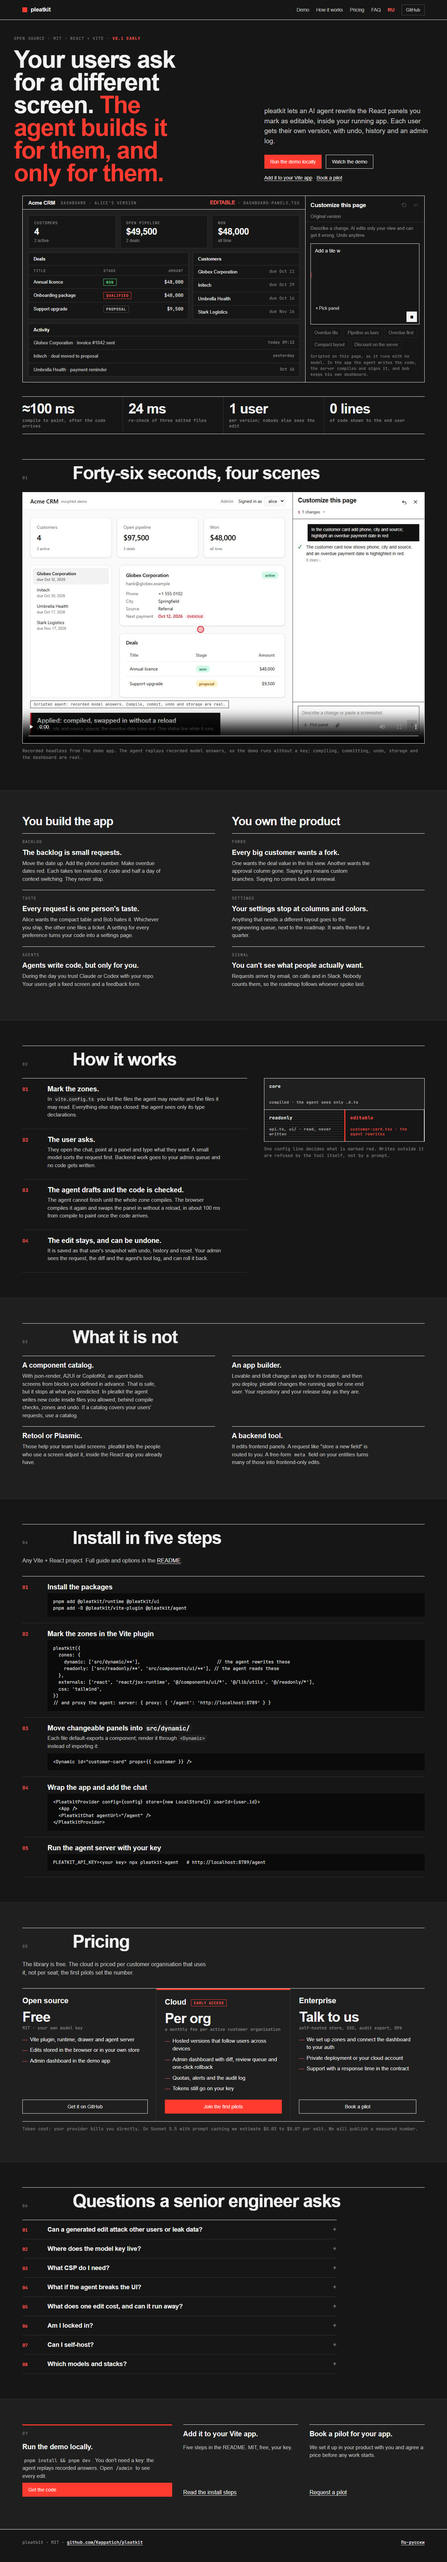
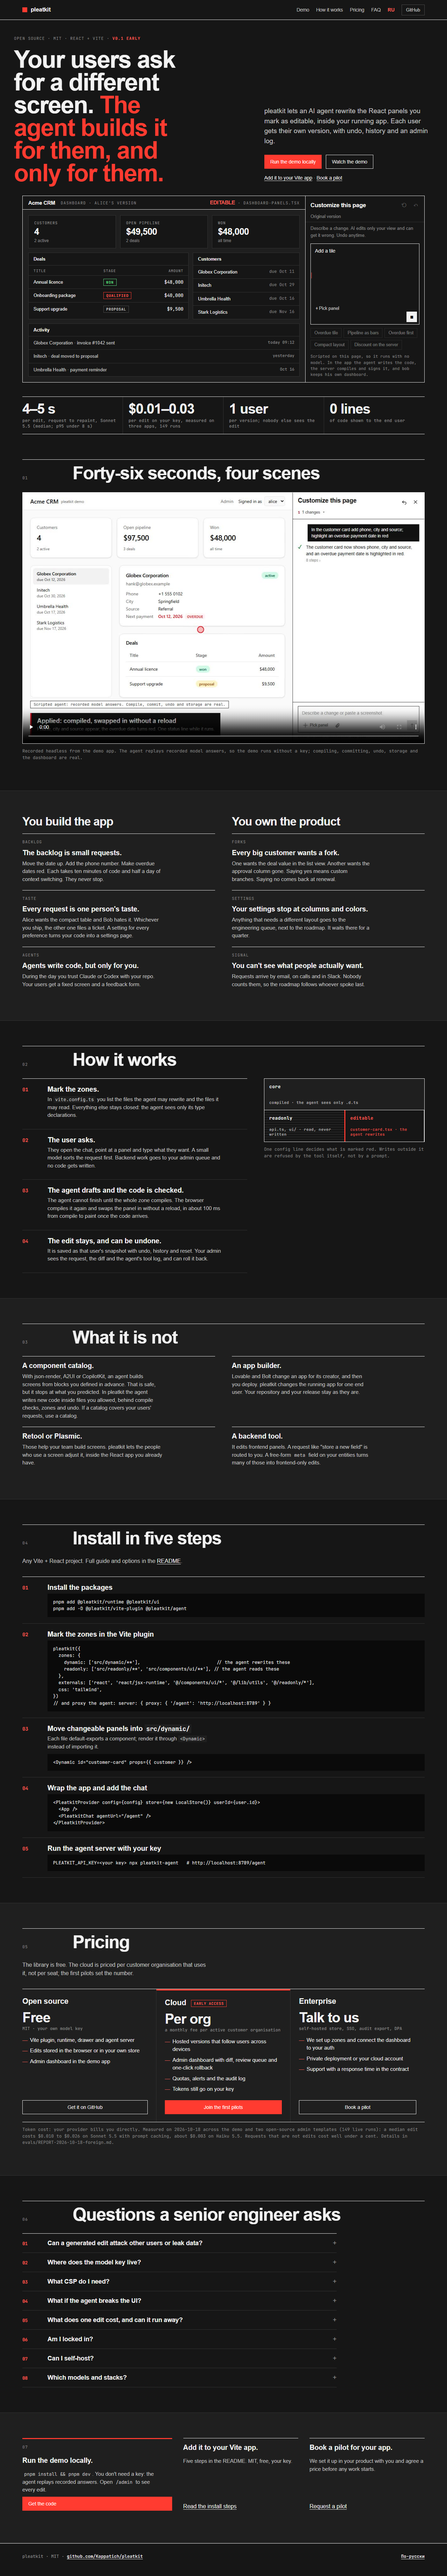
Landing: measured numbers (latency and cost per edit from the stage 5 series) replace the estimates

diff --git a/site/index.html b/site/index.html
@@ -102,8 +102,8 @@
 
   <div class="wrap">
     <div class="dims" aria-label="Measured in the demo app">
-      <div class="dim"><i></i><b>≈100 ms</b><span>compile to paint, after the code arrives</span></div>
-      <div class="dim"><i></i><b>24 ms</b><span>re-check of three edited files</span></div>
+      <div class="dim"><i></i><b>4–5 s</b><span>per edit, request to repaint, Sonnet 5.5 (median; p95 under 8 s)</span></div>
+      <div class="dim"><i></i><b>$0.01–0.03</b><span>per edit on your key, measured on three apps, 149 runs</span></div>
       <div class="dim"><i></i><b>1 user</b><span>per version; nobody else sees the edit</span></div>
       <div class="dim"><i></i><b>0 lines</b><span>of code shown to the end user</span></div>
     </div>
@@ -244,7 +244,7 @@ pnpm add -D @pleatkit/vite-plugin @pleatkit/agent</pre></div></li>
           <a class="btn" href="#pilot">Book a pilot</a>
         </div>
       </div>
-      <p class="note">Token cost: your provider bills you directly. On Sonnet 5.5 with prompt caching we estimate $0.03 to $0.07 per edit. We will publish a measured number.</p>
+      <p class="note">Token cost: your provider bills you directly. Measured on 2026-10-18 across the demo and two open-source admin templates (149 live runs): a median edit costs $0.010 to $0.026 on Sonnet 5.5 with prompt caching, about $0.003 on Haiku 5.5. Requests that are not edits cost well under a cent. Details in evals/REPORT-2026-10-18-foreign.md.</p>
     </div>
   </section>
 
@@ -256,7 +256,7 @@ pnpm add -D @pleatkit/vite-plugin @pleatkit/agent</pre></div></li>
         <details><summary>Where does the model key live?</summary><div><p>In the environment of your agent server and nowhere else. The browser talks to your <code>/agent</code> endpoint and never sees the key. You bring your own key.</p></div></details>
         <details><summary>What CSP do I need?</summary><div><p><code>script-src 'self' blob: 'wasm-unsafe-eval'</code> and <code>worker-src blob:</code>. You don't need <code>'unsafe-inline'</code> for scripts. We test this exact policy in e2e. A CSP without <code>blob:</code> is not supported yet.</p></div></details>
         <details><summary>What if the agent breaks the UI?</summary><div><p>Code that doesn't compile never reaches the user. The agent must pass the check before it can finish, and the browser checks again before committing. If a panel compiles but crashes while rendering, the error stays inside that panel and the panel rolls back by itself after about 10 seconds. Undo and reset are one click.</p></div></details>
-        <details><summary>What does one edit cost, and can it run away?</summary><div><p>A small model sorts each request first, so a backend request costs one cheap call. A full edit is $0.03 to $0.07 on Sonnet 5.5 (estimate, not yet measured). Each edit stops at 12 model calls, 90 seconds or 8,000 visible output tokens. You can change all three limits.</p></div></details>
+        <details><summary>What does one edit cost, and can it run away?</summary><div><p>A small model sorts each request first, so a backend request costs one cheap call. A full edit costs $0.01 to $0.03 on Sonnet 5.5 (measured, see the report in the repository) (estimate, not yet measured). Each edit stops at 12 model calls, 90 seconds or 8,000 visible output tokens. You can change all three limits.</p></div></details>
         <details><summary>Am I locked in?</summary><div><p>The library is MIT. A snapshot is a plain copy of your dynamic files. With the browser store, pleatkit runs with no server of ours. Remove it and your panels go back to being your original files. When you ship a release, users with edits get three choices: keep them, have the agent port them, or reset.</p></div></details>
         <details><summary>Can I self-host?</summary><div><p>Yes for the library and agent server, today. The hosted store and dashboard are the paid Cloud product. A self-hosted store comes with the Enterprise plan.</p></div></details>
         <details><summary>Which models and stacks?</summary><div><p>By default, Claude Sonnet 5.5 writes edits and Haiku 5.5 sorts requests. OpenAI, OpenRouter and any OpenAI-compatible endpoint also work. The stack today is Vite, React and TypeScript. Tailwind 4 classes work in edits, including arbitrary values. Next.js is next.</p></div></details>
